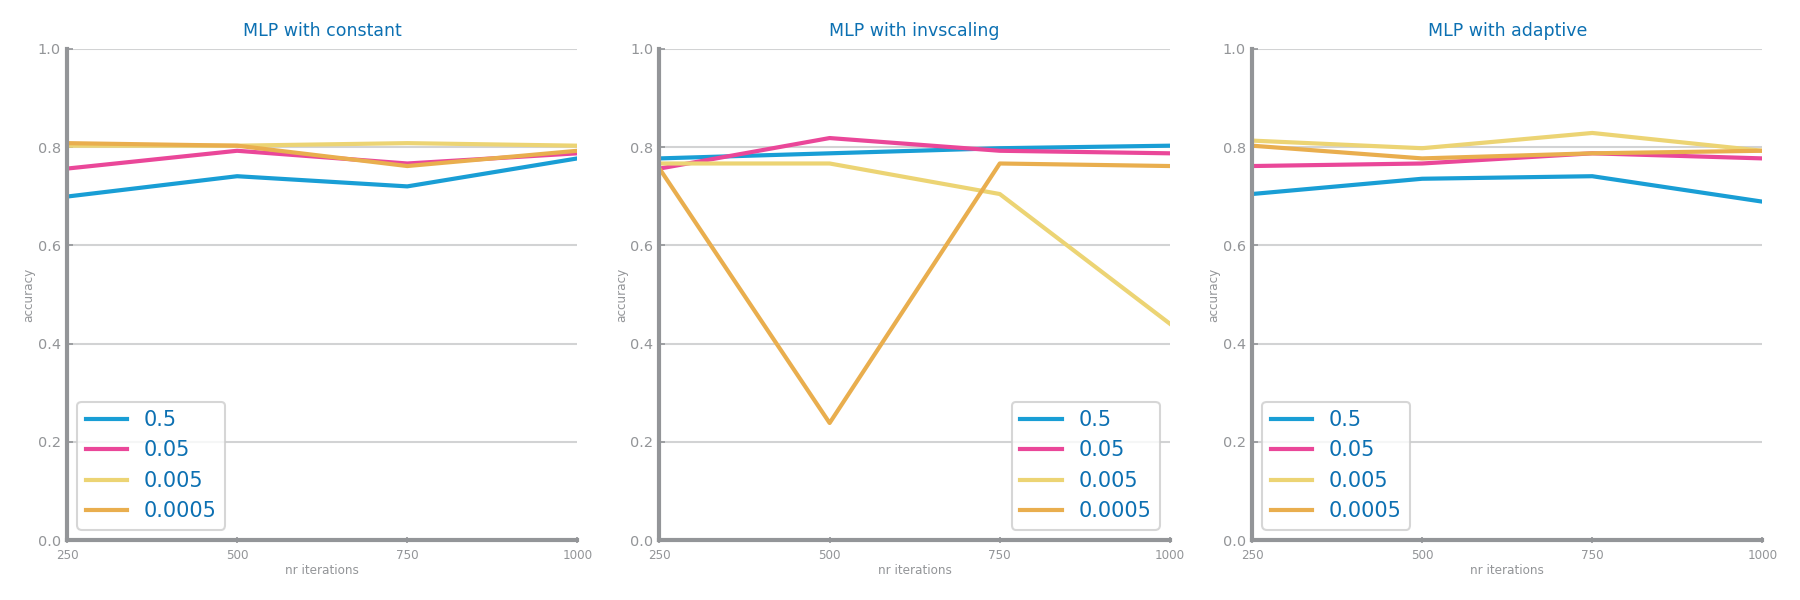
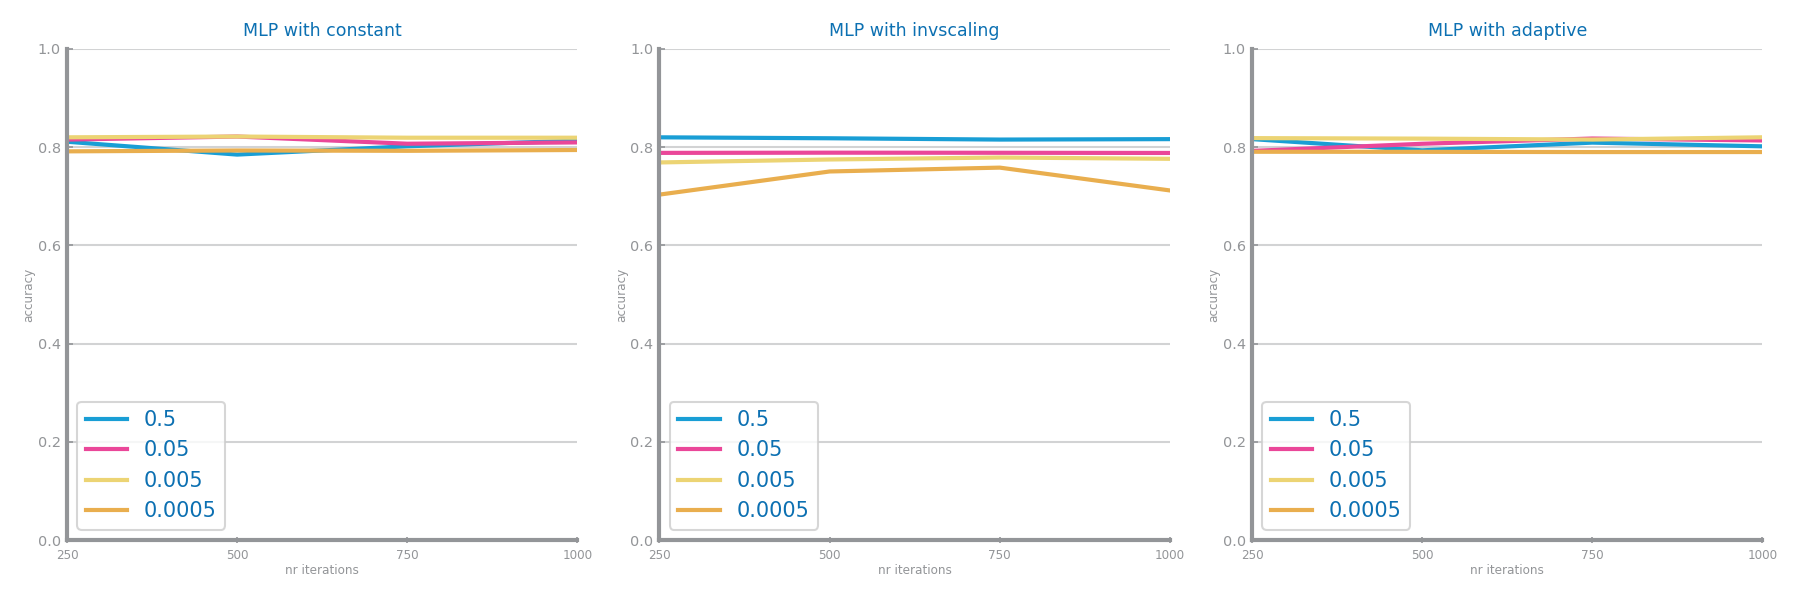
feat: MLP without sampling (only credit score).

diff --git a/classification/models/credit_score/mlp.py b/classification/models/credit_score/mlp.py
@@ -14,7 +14,7 @@ test_filename = "../../data/credit_score/processed_data/class_credit_score_test_
 credit_score_file_tag: str = "class_credit_score"
 target = "Credit_Score"
 
-run_sampling = True
+run_sampling = False
 sampling_amount = 0.01 if run_sampling else 1
 
 sample_tag = f"_1_{int(1 / sampling_amount)}th" if run_sampling else ""
@@ -50,8 +50,6 @@ if run_parameter_study:
     plt.savefig(f"images/{credit_score_file_tag}_mlp_{eval_metric}_study{sample_tag}.png")
     plt.show()
     plt.clf()
-
-# Best alternative: 750 iterations (lr_type=constant and lr=0.5)
 
 # ----------------------------
 # Performance Analysis
